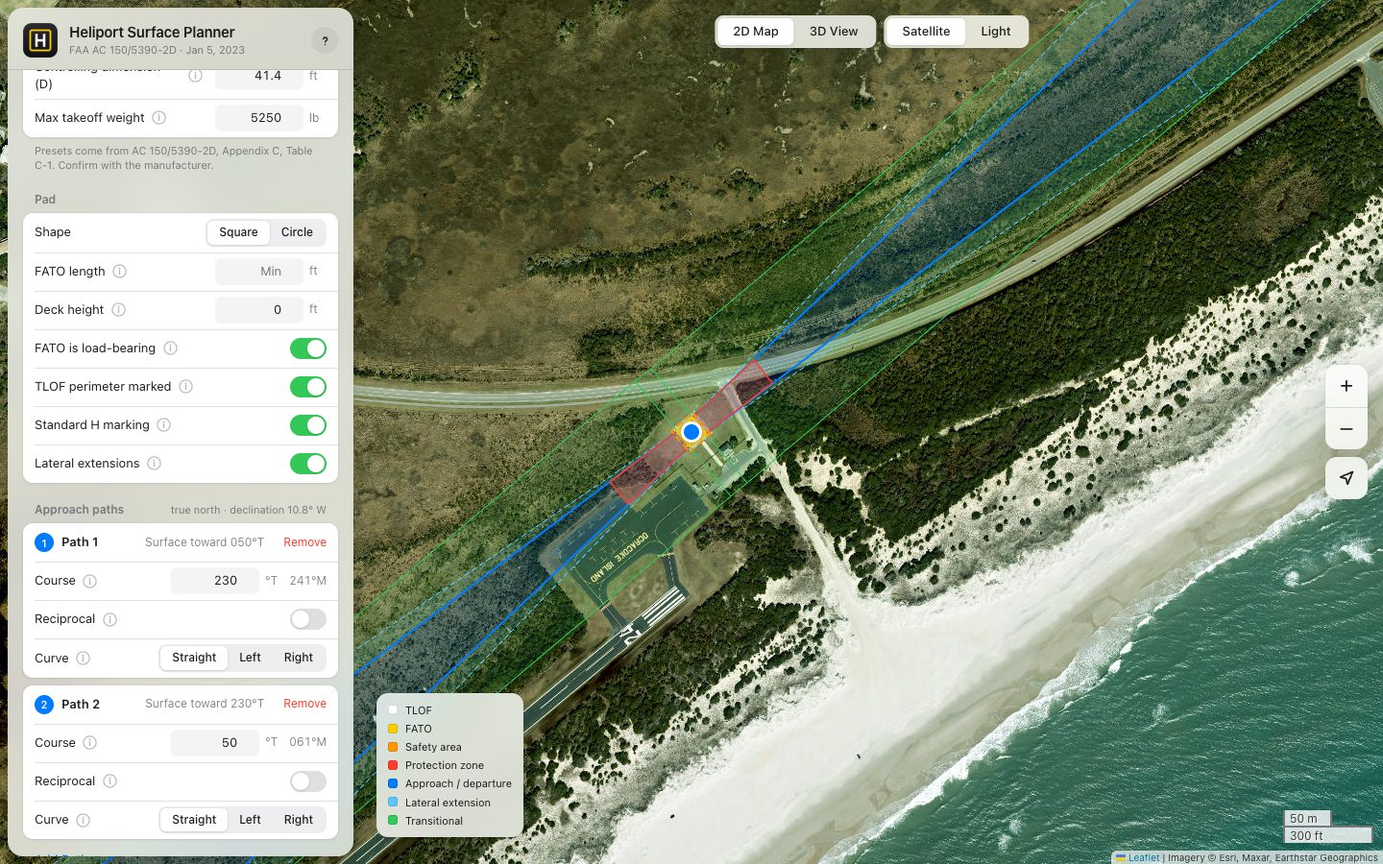
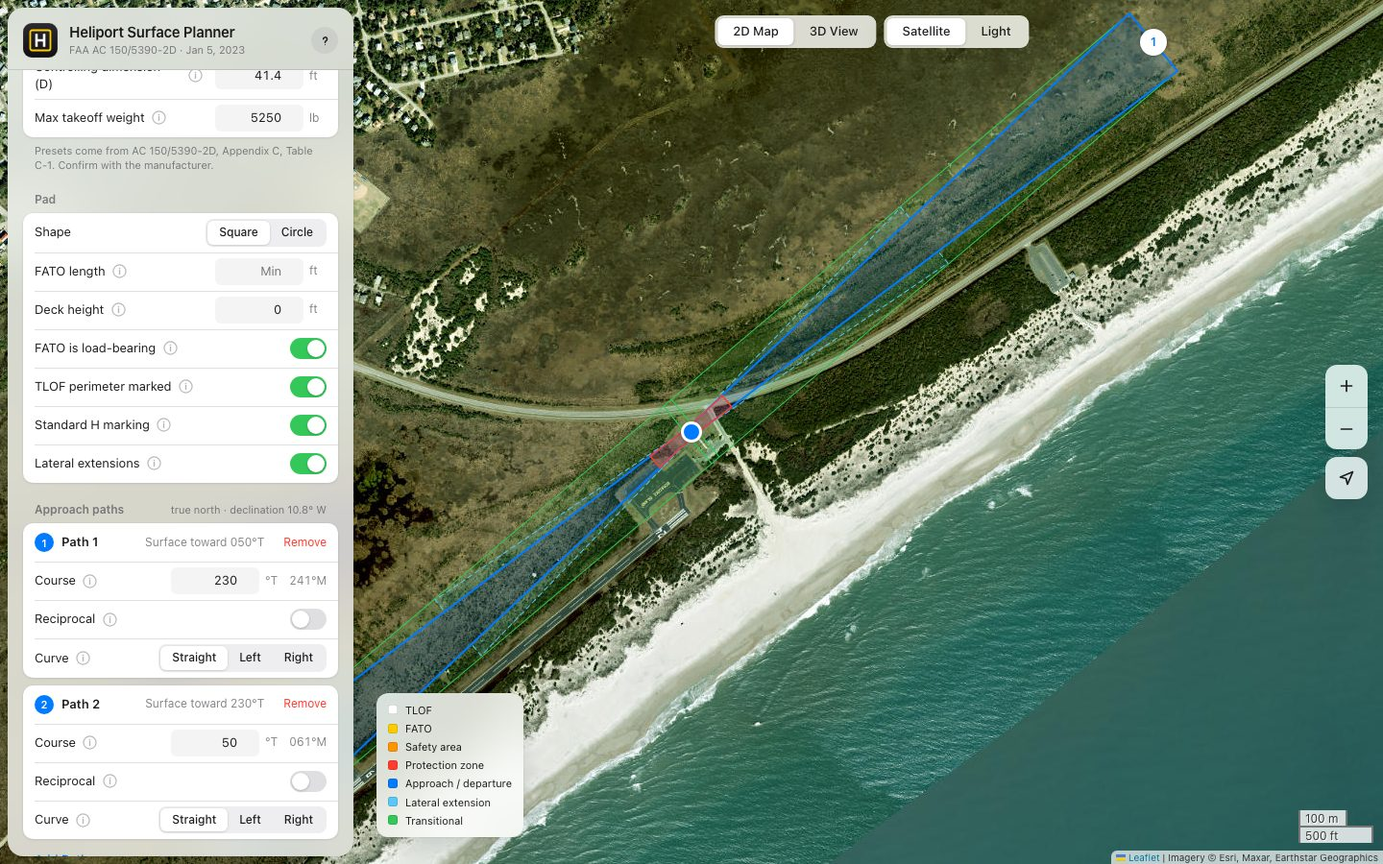
Fix the AC errors found in the engineering review
- Lateral extensions run only the first 2,000 ft, with Area A on the left
  and Area B on the right (2.12.2, Figure 2-17).
- A curved path fails only on radius under 886 ft or straight leg plus
  radius under 1,886 ft; a straight leg under 1,000 ft is a warning.
- A straight leg of 0 is kept as 0.
- An unmarked TLOF with a FATO that is not load-bearing fails (Table 2-4,
  2.8.2, 4.6).
- Path separation compares each path with the preferred path.
- The Figure 2-11 FATO addition applies only at ground-level, non-PPR
  heliports; elsewhere Notes gives the value.
- The size/weight box rounds down, and the no-weight-limit line warns on
  elevated pads (4.4.3.2).
- PPR exports no longer say non-standard (2.2).
- D is the greater of overall length and overall width (1.8.3).

diff --git a/tool/heliport-surfaces.html b/tool/heliport-surfaces.html
@@ -647,12 +647,14 @@ const declText = decl => `${Math.abs(decl).toFixed(1)}° ${decl < 0 ? "W" : "E"}
 // ---------- Curved approach/departure paths, 2.12.3 and Figure 2-16 ----------
 // A curved surface runs straight from the FATO edge for `straight` ft, then turns through `turn` degrees on a
 // circle of `radius` ft, then continues straight until the centerline totals 4,000 ft. Left and right are as seen
-// from the pad looking out along the surface. The AC's limits (2.12.3.2): straight >= 1,000 ft, radius >= 886 ft,
-// straight + radius >= 1,886 ft.
+// from the pad looking out along the surface. The notes to Figures 2-16 and 2-18 require radius >= 886 ft and
+// straight + radius >= 1,886 ft ("any combination >= 1,886 ft will work"). 2.12.3.2 also describes a 1,000 ft
+// straight section before the curve, so a shorter straight leg raises a warning, not a failure.
 const CURVE_MIN = { straight: 1000, radius: 886, sum: 1886 };
 function curveSpec(pa) {
   if (!pa || (pa.curve !== "left" && pa.curve !== "right")) return null;
-  const straight = Math.max(0, +pa.straight || CURVE_MIN.straight), radius = Math.max(1, +pa.radius || CURVE_MIN.radius);
+  const num = (x, d) => (x === "" || x == null || !isFinite(+x)) ? d : +x;
+  const straight = Math.max(0, num(pa.straight, CURVE_MIN.straight)), radius = Math.max(1, num(pa.radius, CURVE_MIN.radius));
   const maxTurn = Math.max(0, (4000 - straight) / radius * 180 / Math.PI);
   const turn = Math.min(Math.max(0, isFinite(+pa.turn) ? +pa.turn : 90), maxTurn);
   return { dir: pa.curve, straight, radius, turn, maxTurn, askedTurn: +pa.turn };
@@ -721,18 +723,25 @@ function computeDesign(p) {
   const fatoByD = T ? Math.max(1.66 * D, 100) : 1.5 * D, fatoByGap = tlof + 2 * 0.34 * D;
   const W = Math.max(fatoByD, fatoByGap);
   const fatoRule = fatoByGap > fatoByD + 1e-9 ? "TLOF + 0.34 D each side" : T ? (1.66 * D >= 100 ? "1.66 D" : "100 ft minimum") : "1.5 D";
-  const elevAdd = fatoElevationAddition(heliportElev);
+  // 2.8.5 requires the Figure 2-11 addition at ground-level heliports. Elevated heliports may rely on hover-out-of-
+  // ground-effect performance instead, and a PPR operator may decline it (2.8.1), so it is not added there.
+  const elevAddFig = fatoElevationAddition(heliportElev);
+  const elevAdd = (elevated || ppr) ? 0 : elevAddFig;
   const baseL = Math.max(W, +p.fatoLen || 0);
   const L = baseL + elevAdd;
   if (+p.fatoLen > 0 && +p.fatoLen < W) msgs.push(["warn", `FATO length ${p.fatoLen} ft is below the minimum ${W.toFixed(1)} ft, so the minimum is used.`]);
-  if (elevAdd > 0) msgs.push(["info", `Heliport elevation ${Math.round(heliportElev)} ft MSL adds ${elevAdd.toFixed(0)} ft to FATO length (2.8.5, Figure 2-11).${elevated ? " For an elevated heliport, 2.8.5 lets the helicopters' hover-out-of-ground-effect performance be considered instead of, or with, the extra length." : ""}`]);
+  if (elevAdd > 0) msgs.push(["info", `Heliport elevation ${Math.round(heliportElev)} ft MSL adds ${elevAdd.toFixed(0)} ft to FATO length (2.8.5, Figure 2-11). The extra length is drawn along Path 1; check it for the other takeoff directions too.`]);
+  else if (elevAddFig > 0) msgs.push(["info", `At ${Math.round(heliportElev)} ft MSL, Figure 2-11 gives ${elevAddFig.toFixed(0)} ft of extra FATO length. It is not added here: ${elevated ? "at an elevated heliport, 2.8.5 lets the helicopters' hover-out-of-ground-effect performance be considered instead" : "a PPR operator may choose not to provide it (2.8.1)"}. Enter a longer FATO length if you want it.`]);
   if (heliportElev > 6000) msgs.push(["warn", "Figure 2-11 stops at 6,000 ft; the FATO addition above that is extrapolated."]);
 
   // 2.9, Table 2-1 (TRANSPORT) and Table 2-4 (GENERAL AVIATION, HOSPITAL, PPR): safety area
   const sr = safetyAreaRule(type, ppr, tlofMarked, p.hSymbol);
   const sa = Math.max(sr.k * D, sr.min);
   const saRule = `${sr.k} D, at least ${sr.min} ft${sr.scen ? ` (Table 2-4, scenario ${sr.scen})` : ""}`;
-  if (!tlofMarked) msgs.push(["info", "With the TLOF perimeter unmarked, mark the FATO perimeter instead (4.4.1, Table 2-4 scenarios 3 and 4)."]);
+  if (!tlofMarked) {
+    if (!p.fatoLoadBearing) msgs.push(["bad", "With the TLOF perimeter unmarked, the FATO perimeter must be marked (Table 2-4, scenarios 3 and 4) and the FATO must carry the design helicopter's dynamic loads (2.8.2). A FATO that is not load-bearing is not marked (4.6), so mark the TLOF or make the FATO load-bearing."]);
+    else msgs.push(["info", "With the TLOF perimeter unmarked, mark the FATO perimeter instead (4.4.1, Table 2-4 scenarios 3 and 4)."]);
+  }
   if (T && !p.hSymbol) msgs.push(["warn", "TRANSPORT heliports are marked with the standard white H (Figure 4-1)."]);
   if (!p.hSymbol && !T) msgs.push(["info", `Without the standard H, ${ppr ? "a PPR heliport may use a distinctive marking such as a company logo (4.3.1); " : ""}the safety area is ${f0(sa)} ft (Table 2-4).`]);
 
@@ -788,13 +797,14 @@ function computeDesign(p) {
     const circ = p.shape === "circle";
     const bs = tlof >= 60 ? 10 : 5, edge = tlof / 2 - 1.5;
     const [bx, by] = circ ? (HOSP && p.hSymbol ? [tlof * 0.275, -tlof * 0.275] : [10 / 3 + 2 + bs / 2, 0]) : [edge - bs / 2, -(edge - bs / 2)];
-    const wt = Math.round(+p.mtow / 1000);
+    const wt = Math.floor(+p.mtow / 1000), Dbox = Math.floor(D);
+    if (!wt && elevated) msgs.push(["warn", "The diagonal no-weight-limit line is only for ground-level heliports (4.4.3.2). Enter the maximum takeoff weight for an elevated pad."]);
     add("marking", "Size/weight limitation box, weight", ring([[bx - bs / 2, by], [bx + bs / 2, by], [bx + bs / 2, by + bs / 2], [bx - bs / 2, by + bs / 2]]), deckAlt,
       { weight_thousands_lb: wt || "no limit", box_ft: bs });
-    add("marking", "Size/weight limitation box, controlling dimension", ring([[bx - bs / 2, by - bs / 2], [bx + bs / 2, by - bs / 2], [bx + bs / 2, by], [bx - bs / 2, by]]), deckAlt, { controlling_dimension_ft: Math.round(D) });
+    add("marking", "Size/weight limitation box, controlling dimension", ring([[bx - bs / 2, by - bs / 2], [bx + bs / 2, by - bs / 2], [bx + bs / 2, by], [bx - bs / 2, by]]), deckAlt, { controlling_dimension_ft: Dbox });
     if (wt) labels.push({ text: String(wt), xy: at(bx, by + bs / 4), h: bs * 0.32, rot: course });
     else labels.push({ text: "╱", xy: at(bx, by + bs / 4), h: bs * 0.45, rot: course });
-    labels.push({ text: `D${Math.round(D)}`, xy: at(bx, by - bs / 4), h: bs * 0.28, rot: course });
+    labels.push({ text: `D${Dbox}`, xy: at(bx, by - bs / 4), h: bs * 0.28, rot: course });
   }
 
   // Magnetic declination at the site (WMM2025), for magnetic courses alongside true.
@@ -852,19 +862,19 @@ function computeDesign(p) {
     add("hpz", `Heliport protection zone, ${pname}`, [at(0, -w0 / 2, 0), at(0, w0 / 2, 0), at(HPZ, hpzW / 2, 0), at(HPZ, -hpzW / 2, 0), at(0, -w0 / 2, 0)], "ground",
       { path: s.label, length_ft: HPZ, outer_width_ft: +hpzW.toFixed(1) });
 
-    // 2.12.2(4) and Figure 2-17: optional lateral extensions for HOSPITAL and PPR heliports. Each side widens from
-    // nothing at the FATO edge to 100 ft at 2,000 ft out (Area B), then stays 100 ft wide to 4,000 ft (Area A).
-    // They rise at 8:1 with the approach surface. Obstacles may penetrate Area A or Area B, not both.
+    // 2.12.2 and Figure 2-17: optional lateral extensions for HOSPITAL and PPR heliports, for the first 2,000 ft
+    // only. Each side widens from nothing at the FATO edge to 100 ft at 2,000 ft out, rising at 8:1 with the
+    // approach surface. Area A is the left side and Area B the right, looking out from the pad (Figure 2-17 plan view).
+    // Obstacles may penetrate Area A or Area B, not both.
     if (latExt) {
       const ext = t => EXT_W * Math.min(t, EXT_LEN) / EXT_LEN;
-      const stx = [...new Set(st.concat([EXT_LEN]))].sort((a, b) => a - b);
-      [-1, 1].forEach(side => [["B", 0, EXT_LEN], ["A", EXT_LEN, LEN]].forEach(([area, a0, a1]) => {
-        const seg = stx.filter(t => t >= a0 - 0.01 && t <= a1 + 0.01);
+      const seg = [...new Set(st.filter(t => t < EXT_LEN).concat([EXT_LEN]))].sort((a, b) => a - b);
+      [[-1, "A", "left"], [1, "B", "right"]].forEach(([side, area, sideName]) => {
         const inner = seg.map(t => at(t, side * hw(t), t / s.slope)), outer = seg.map(t => at(t, side * (hw(t) + ext(t)), t / s.slope));
         const ring = inner.concat(outer.reverse()); ring.push(ring[0]);
-        add("latext", `Lateral extension, Area ${area}, ${pname}, ${side < 0 ? "left" : "right"}`, ring, "surface",
-          { path: s.label, area, slope: "8:1", from_ft: a0, to_ft: a1, width_at_end_ft: EXT_W, note: "Obstacles may penetrate Area A or Area B, not both, if marked or lighted and not a hazard (Figure 2-17)" });
-      }));
+        add("latext", `Lateral extension, Area ${area} (${sideName}), ${pname}`, ring, "surface",
+          { path: s.label, area, side: sideName, slope: "8:1", length_ft: EXT_LEN, width_at_end_ft: EXT_W, note: "Obstacles may penetrate Area A or Area B, not both, if marked or lighted and not a hazard (2.12.2, Figure 2-17)" });
+      });
     }
 
     if (w0 / 2 < TRANS_OUT) {
@@ -892,33 +902,25 @@ function computeDesign(p) {
   // 2.12.3.2: curved path limits.
   surfaces.filter(s => s.curve).forEach(s => {
     const cv = s.curve, i = s.idx, P = `Path ${s.label}`;
-    if (cv.straight < CURVE_MIN.straight - 0.01) flag(i, "bad", `${P}: the straight leg before the curve is ${Math.round(cv.straight)} ft. The AC calls for at least 1,000 ft (2.12.3.2).`);
-    if (cv.radius < CURVE_MIN.radius - 0.01) flag(i, "bad", `${P}: the curve radius is ${Math.round(cv.radius)} ft. The AC calls for at least 886 ft (2.12.3.2).`);
-    if (cv.straight + cv.radius < CURVE_MIN.sum - 0.01) flag(i, "bad", `${P}: the straight leg plus the radius is ${Math.round(cv.straight + cv.radius).toLocaleString("en-US")} ft. The AC calls for at least 1,886 ft (2.12.3.2).`);
+    if (cv.radius < CURVE_MIN.radius - 0.01) flag(i, "bad", `${P}: the curve radius is ${Math.round(cv.radius)} ft. The AC calls for at least 886 ft (Figures 2-16 and 2-18, note 1).`);
+    if (cv.straight + cv.radius < CURVE_MIN.sum - 0.01) flag(i, "bad", `${P}: the straight leg plus the radius is ${Math.round(cv.straight + cv.radius).toLocaleString("en-US")} ft. The AC calls for at least 1,886 ft (Figures 2-16 and 2-18, note 1).`);
+    else if (cv.straight < CURVE_MIN.straight - 0.01) flag(i, "warn", `${P}: the straight leg before the curve is ${Math.round(cv.straight)} ft. The figure notes accept it because the straight leg plus the radius is at least 1,886 ft, but 2.12.3.2 describes a 1,000 ft straight section before the curve, and a straight leg helps the helicopter accelerate (Figure 2-16, note 3).`);
     if (cv.askedTurn > cv.maxTurn + 0.05) flag(i, "warn", `${P}: a ${Math.round(cv.askedTurn)}° turn doesn't fit in the 4,000 ft surface with this straight leg and radius, so the turn is cut to ${Math.round(cv.maxTurn)}°.`);
     msgs.push(["info", `${P} curves ${cv.dir} ${Math.round(cv.turn)}° after a ${Math.round(cv.straight).toLocaleString("en-US")} ft straight leg, on an ${Math.round(cv.radius).toLocaleString("en-US")} ft radius. Takeoff performance may be lower in a curve (Figure 2-16, note 3).`]);
   });
   // 1.9 and 2.12.1: design for two approach/departure paths to the extent practicable. Without wind data, separate
   // additional paths from the preferred path by at least 135 degrees. A recommendation, so it raises a warning.
-  let bestSep = 0;
-  surfaces.forEach((s, a) => surfaces.forEach((o, b) => { if (b > a) bestSep = Math.max(bestSep, angDiff(s.bearing, o.bearing)); }));
-  const sepOk = bestSep >= 135 - 0.5;
   if (paths.length && surfaces.length < 2) {
     if (ppr) msgs.push(["info", "One approach/departure path. A PPR heliport may have only one, if every pilot using it knows the path and the site's limits (2.12.1)."]);
     else flag(0, "warn", "Only one approach/departure surface. The AC recommends two where practicable (1.9, 2.12.1): make Path 1 reciprocal, or add a second path at least 135° away.");
   }
-  const pairsSaid = new Set();   // report each close pair once, but mark both paths
-  surfaces.forEach(s => {
-    if (s.recip || surfaces.length < 2) return;
+  // Each additional path is compared with the preferred path (Path 1, and its reciprocal if it has one).
+  const pref = surfaces.filter(s => s.idx === 0);
+  surfaces.filter(s => s.idx !== 0).forEach(s => {
     let near = 360, other = null;
-    surfaces.forEach(o => { if (o !== s && angDiff(s.bearing, o.bearing) < near) { near = angDiff(s.bearing, o.bearing); other = o; } });
-    if (near >= 135 - 0.5) return;
-    const key = [s.label, other.label].sort().join("|"), said = pairsSaid.has(key); pairsSaid.add(key);
-    const text = `Paths ${[s.label, other.label].sort().join(" and ")} are ${near.toFixed(0)}° apart.`;
-    if (!sepOk) {
-      const t = `${text} Without a wind analysis, the AC recommends at least 135° between the preferred path and another (1.9.1, 2.12.1).`;
-      if (said) pathFlags[s.idx].push(["warn", t]); else flag(s.idx, "warn", t);
-    } else if (!said) msgs.push(["info", `${text} That is fine for an additional path, because another pair of paths is already 135° or more apart.`]);
+    pref.forEach(o => { const a = angDiff(s.bearing, o.bearing); if (a < near) { near = a; other = o; } });
+    if (!other || near >= 135 - 0.5) return;
+    flag(s.idx, "warn", `Path ${s.label} is ${near.toFixed(0)}° from the preferred path (Path ${other.label}). The AC recommends at least 135° between the preferred path and another, unless a wind analysis or site conditions support less (1.9.1, 2.12.1).`);
   });
   const axisAligned = s => [0, 90, 180, 270].some(k => angDiff(s.bearing, axisBearing + k) < 0.5);
   if (isRect && surfaces.some(s => !axisAligned(s))) msgs.push(["info", "A path is not square to the FATO. Its surface starts where it leaves the FATO and its inner width is the FATO's width seen across that path."]);
@@ -966,7 +968,7 @@ function buildKML(design, site) {
   };
   const failed = design.failed || [];
   const status = failed.length
-    ? `<tr><td><b>Status</b></td><td><b style="color:#d70015">NON-STANDARD.</b> This layout does not meet AC 150/5390-2D:<ul>${failed.map(t => `<li>${esc(t)}</li>`).join("")}</ul></td></tr>`
+    ? `<tr><td><b>Status</b></td><td><b style="color:#d70015">${design.ppr ? "Does not follow AC 150/5390-2D." : "NON-STANDARD."}</b> ${design.ppr ? "The AC's recommendations are not mandatory at PPR heliports (2.2), but this layout departs from them:" : "This layout does not meet AC 150/5390-2D:"}<ul>${failed.map(t => `<li>${esc(t)}</li>`).join("")}</ul></td></tr>`
     : `<tr><td>Status</td><td>Meets the AC 150/5390-2D checks this planner runs</td></tr>`;
   const summary = `<table>
 ${status}
@@ -1076,14 +1078,14 @@ const INFO = {
   elev: ["Ground elevation", `<p>Height of the ground at the pad, in feet above mean sea level. It sets the altitude of the surfaces in Google Earth.</p><p>It fills in when you place the pad, from the USGS in the United States and Open-Meteo elsewhere. You can type a surveyed value instead.</p><p class="src">Sites above 1,000 ft get a longer FATO (2.8.5, Figure 2-11).</p>`],
   htype: ["Heliport type", `<p><b>General</b> aviation heliports serve the public or private users with smaller helicopters. <b>Transport</b> heliports serve scheduled or larger operations and get larger minimums: a TLOF of at least 50 ft, a FATO of at least 100 ft and a protection zone of 400 ft. <b>Hospital</b> heliports serve medical flights, with a TLOF of at least 40 ft and the red H in a white cross.</p><p class="src">AC 150/5390-2D, 1.8, Table 2-1, Table 2-4, 2.13 and Figure 4-3</p>`],
   ppr: ["Prior permission required", `<p>A PPR heliport is private-use; pilots need the owner's permission before landing, and the owner makes sure they know the site's limits.</p><p>PPR sites use the smaller safety-area minimums in Table 2-4, may have a single approach path, may skip the size and weight box, and may add optional lateral extensions to the approach surfaces.</p><p class="src">AC 150/5390-2D, 1.8.34, 2.12.1, 2.12.2 and 4.4.3</p>`],
-  D: ["Controlling dimension (D)", `<p>The diameter of the smallest circle that fits around the whole helicopter, seen from above, with the rotors turning.</p><p>D sets every pad size: the TLOF (0.83 D), the FATO (1.5 D, or 1.66 D at a Transport heliport), the safety area and the touchdown circle.</p><p class="src">AC 150/5390-2D, Table 2-1 and Appendix C</p>`],
+  D: ["Controlling dimension (D)", `<p>The greater of the helicopter's overall length and overall width, measured from rotor tip to the rear-most point and across the rotors (1.8.3, 1.8.31, 1.8.32).</p><p>D sets every pad size: the TLOF (0.83 D), the FATO (1.5 D, or 1.66 D at a Transport heliport), the safety area and the touchdown circle.</p><p class="src">AC 150/5390-2D, Table 2-1 and Appendix C</p>`],
   mtow: ["Maximum takeoff weight", `<p>The heaviest the helicopter can legally take off. It goes in the top half of the size and weight box on the TLOF, in thousands of pounds. Enter 0 for a ground-level pad with no weight limit; the box then shows a diagonal line.</p><p class="src">AC 150/5390-2D, 4.4.3.2 and Figure 4-2</p>`],
   fatoLen: ["FATO length", `<p>Leave it empty for the minimum size. Enter a larger number to stretch the FATO along Path 1. A longer FATO adds room for approaches, takeoffs and emergency landings, and lengthens the transitional surfaces.</p><p class="src">AC 150/5390-2D, 2.7.6 and 2.8.1</p>`],
   deck: ["Deck height", `<p>Height of the landing surface above the surrounding ground. Use 0 for a ground-level pad.</p><p>A pad 30 inches (2.5 ft) or more above the ground counts as elevated, such as a rooftop.</p><p class="src">AC 150/5390-2D, 2.7.7</p>`],
   fatoLB: ["Load-bearing FATO", `<p>Turn this off if only the TLOF can carry the helicopter, which is common on rooftops. On an elevated pad with a non-load-bearing FATO, the TLOF grows to at least 1 D.</p><p>An elevated Transport heliport needs a load-bearing FATO.</p><p class="src">AC 150/5390-2D, 2.7.2.1, 2.7.7.2 and 2.8.6.1</p>`],
   hsym: ["H marking", `<p>The standard <b>H</b> is 10 ft tall and 6 ft 8 in wide, centered in the TLOF and read upright by a pilot flying Path 1. A 1 ft black bar 2 ft below it shows the preferred direction.</p><p>At a Hospital heliport the H is red, inside a 30 ft white cross. The size and weight box sits in the lower-right corner (or right of the H on a circular TLOF): weight in thousands of pounds on top, "D" and the controlling dimension below.</p><p>Without the standard H, Table 2-4 adds width to the safety area. A PPR site may use a logo instead.</p><p class="src">AC 150/5390-2D, 4.3, 4.4.3, Figures 4-1 to 4-3 and Table 2-4</p>`],
   tlofMark: ["TLOF perimeter marking", `<p>A 12 in white line, or retroreflective markers, around the TLOF edge.</p><p>If the TLOF is not marked, mark the FATO edge instead. The safety area then grows from 0.28 D to 0.5 D at General, Hospital and PPR heliports.</p><p class="src">AC 150/5390-2D, 4.4.1 and Table 2-4</p>`],
-  latext: ["Lateral extensions", `<p>An option for Hospital and PPR heliports. Each side of the 8:1 approach surface gets an extra strip that grows from nothing at the FATO to 100 ft wide at 2,000 ft out (Area B), then stays 100 ft wide to 4,000 ft (Area A).</p><p>Obstacles may rise into Area A or Area B, but not both, if they are marked or lighted and the FAA finds they are not a hazard.</p><p class="src">AC 150/5390-2D, 2.12.2 and Figures 2-17 and 2-18. The A and B split is read from Figure 2-17.</p>`],
+  latext: ["Lateral extensions", `<p>An option for Hospital and PPR heliports. For the first 2,000 ft, each side of the 8:1 approach surface gets an extra strip that grows from nothing at the FATO to 100 ft wide at 2,000 ft out. Area A is the left strip and Area B the right, looking out from the pad.</p><p>Obstacles may rise into Area A or Area B, but not both, if they are marked or lighted and the FAA finds they are not a hazard.</p><p class="src">AC 150/5390-2D, 2.12.2 and Figure 2-17</p>`],
   course: ["Course", `<p>The direction the helicopter flies on final approach, in degrees from true north. The magnetic course shows beside it.</p><p>A course of 230° means the helicopter flies southwest toward the pad, so the approach surface lies to the northeast.</p><p>Drag the numbered handle on the 2D map to set it by eye.</p><p class="src">Magnetic courses use the World Magnetic Model 2025 (NOAA), at the pad, for today's date.</p>`],
   curve: ["Curved path", `<p>A curved surface starts straight from the FATO and then turns once. Left and right are as seen from the pad looking out along the surface, which is the way a departing helicopter turns.</p><ul><li>Straight leg: at least 1,000 ft.</li><li>Radius: at least 886 ft.</li><li>Straight leg plus radius: at least 1,886 ft.</li><li>The centerline totals 4,000 ft. Any length left after the turn continues straight.</li></ul><p>Takeoff performance may drop in a curve, so a straight leg first lets the helicopter accelerate. A reciprocal surface on the other side stays straight.</p><p class="src">AC 150/5390-2D, 2.12.3 and Figure 2-16</p>`],
   wind: ["Wind analysis", `<p>The AC asks for the preferred approach and departure paths to line up with the predominant wind, so pilots avoid tailwinds and keep crosswinds small.</p><p><b>Run Wind Analysis</b> downloads ten full years of hourly reports from the chosen ASOS or AWOS station through the Iowa Environmental Mesonet. It takes a minute and is saved in this browser for next time.</p><p>The wind rose shows how often wind blows from each direction, by speed. The numbered lines are your paths, drawn at their approach course: a helicopter on that course lands into wind from that direction.</p><p>Pick the station nearest the pad with similar terrain. An airport a few miles away can see different winds than a rooftop downtown.</p><p class="src">AC 150/5390-2D, 1.9.1 and 2.12.1; method from AC 150/5300-13B, Appendix B</p>`],

diff --git a/README.md b/README.md
@@ -44,7 +44,7 @@ Turn on **Prior permission required (PPR)** for a private-use site where pilots 
 
 Then pick the design helicopter from the Preset list, or type two numbers from the manufacturer:
 
-- **Controlling dimension (D):** the width of the smallest circle that fits around the whole helicopter, seen from above, rotors turning.
+- **Controlling dimension (D):** the greater of the helicopter's overall length (rotor tip to the rear-most point) and its overall width across the rotors (1.8.3).
 - **Max takeoff weight:** in pounds. It goes in the size and weight box on the pad.
 
 The presets come from Appendix C, Table C-1 of the AC.
@@ -53,9 +53,9 @@ The presets come from Appendix C, Table C-1 of the AC.
 
 Each blue band is an approach path. Drag the numbered white handle at its end to point it where helicopters will fly in, or type the course in degrees from true north. The magnetic course shows beside it, from the World Magnetic Model 2025. Every surface is 8:1, as 2.12.2 requires. Turn on **Reciprocal** if helicopters can use the same line in both directions. Use **Add Path** for another direction.
 
-The AC recommends two approach/departure paths where practicable and, without wind data, at least 135° between the preferred path and another (1.9.1, 2.12.1). These are recommendations, so a layout that misses them gets an orange warning, not a failure. A PPR heliport may have one path.
+The AC recommends two approach/departure paths where practicable and at least 135° between the preferred path and each other path, unless wind or site conditions support less (1.9.1, 2.12.1). The planner compares each path with Path 1, the preferred path. These are recommendations, so a layout that misses them gets an orange warning, not a failure. A PPR heliport may have one path.
 
-To bend a path around buildings or terrain, set **Curve** to Left or Right (as seen from the pad looking out). Then set the straight leg (at least 1,000 ft), the radius (at least 886 ft) and the turn. The AC allows one curve per path (2.12.3).
+To bend a path around buildings or terrain, set **Curve** to Left or Right (as seen from the pad looking out). Then set the straight leg, the radius and the turn. The radius must be at least 886 ft and the straight leg plus the radius at least 1,886 ft (notes to Figures 2-16 and 2-18). A straight leg under 1,000 ft gets a warning, because 2.12.3.2 describes a 1,000 ft straight section before the curve. The AC allows one curve per path (2.12.3).
 
 ### Check the wind
 
@@ -141,11 +141,9 @@ Two switches under **Pad** change the safety area, as Table 2-4 sets out for Gen
 
 ## Lateral extensions for hospital and PPR heliports
 
-At Hospital and PPR heliports the AC offers lateral extensions of the 8:1 approach surface (2.12.2, Figure 2-17). Each side gets a strip that grows from nothing at the FATO to 100 ft wide at 2,000 ft out (Area B), then stays 100 ft wide to 4,000 ft (Area A). An obstacle may rise into Area A or Area B, but not both, if it is marked or lighted and the FAA finds it is not a hazard. Turn on **Lateral extensions** under **Pad** to draw them in light blue.
+At Hospital and PPR heliports the AC offers lateral extensions of the 8:1 approach surface (2.12.2, Figure 2-17). For the first 2,000 ft, each side gets a strip that grows from nothing at the FATO to 100 ft wide at 2,000 ft out. Area A is the left strip and Area B the right, looking out from the pad. An obstacle may rise into Area A or Area B, but not both, if it is marked or lighted and the FAA finds it is not a hazard. Turn on **Lateral extensions** under **Pad** to draw them in light blue.
 
 ![Lateral extensions beside the approach surfaces at a hospital heliport](docs/images/08-hospital-lateral-extensions.jpg)
-
-The text of 2.12.2 and the figure leave some room for reading. The planner takes Area B as the tapering inner 2,000 ft and Area A as the constant-width outer 2,000 ft, from the labels in Figures 2-17 and 2-18.
 
 ## Open your export in Google Earth or GIS
 
@@ -183,12 +181,12 @@ Coordinates are WGS 84 longitude and latitude (EPSG:4326). Heights are meters ab
 | Orange dashed line | Safety area around the FATO | Transport: 0.42 D, at least 30 ft. Others: 0.28 D or 0.5 D, with a 10 to 30 ft minimum, by marking scenario | Table 2-1, Table 2-4 |
 | Red | Heliport protection zone | The first 280 ft under each approach surface (400 ft for Transport) | 2.13, Figure 2-20 |
 | Blue | Approach and departure surface | Starts at the FATO edge, rises at 8:1 and widens to 500 ft at 4,000 ft out, 500 ft above the heliport | 2.12.2, Figure 2-15 |
-| Light blue, dashed | Lateral extensions (Hospital and PPR, optional) | 0 to 100 ft wide over the first 2,000 ft, then 100 ft to 4,000 ft, each side | 2.12.2, Figure 2-17 |
+| Light blue, dashed | Lateral extensions (Hospital and PPR, optional) | 0 to 100 ft wide over the first 2,000 ft, each side (Area A left, Area B right) | 2.12.2, Figure 2-17 |
 | Green | Transitional surfaces | Rise at 2:1 from the sides of the approach surface and the FATO, out to 250 ft from the centerline | 2.12.2 |
 | Yellow ring | Touchdown/positioning circle | Inner diameter 0.5 D, 18 in wide | 4.4.2 |
 | White, outlined | H, hospital cross and size/weight box | H 10 ft by 6 ft 8 in; cross 30 ft; box 5 ft, or 10 ft on a TLOF of 60 ft or more | 4.3, 4.4.3, Figures 4-1 to 4-3 |
 
-Sites above 1,000 ft elevation get a longer FATO, read from Figure 2-11 of the AC to within about 5 ft. The AC's worked example, 80 ft at 3,200 ft, lands on the curve. For elevated heliports, 2.8.5 lets helicopter performance be considered instead, and Notes says so.
+Sites above 1,000 ft elevation get a longer FATO, read from Figure 2-11 of the AC to within about 5 ft. The AC's worked example, 80 ft at 3,200 ft, lands on the curve. The extra length is added only at ground-level heliports. For elevated heliports, 2.8.5 lets helicopter performance be considered instead, and a PPR operator may decline it (2.8.1), so there Notes gives the Figure 2-11 value without adding it. Enter a longer FATO length to include it.
 
 Approach paths can be straight or curved (2.12.3, Figure 2-16). Courses show in true and magnetic.
 
@@ -211,7 +209,7 @@ Not drawn yet: elongated FATOs with two takeoff positions (Table 2-2), TLOFs out
 | Term | Meaning |
 |---|---|
 | AC | Advisory Circular, the FAA's guidance document |
-| D | Controlling dimension: the smallest circle around the whole helicopter, rotors turning |
+| D | Controlling dimension: the greater of overall length and overall width |
 | MTOW | Maximum takeoff weight |
 | TLOF | Touchdown and liftoff area |
 | FATO | Final approach and takeoff area |
